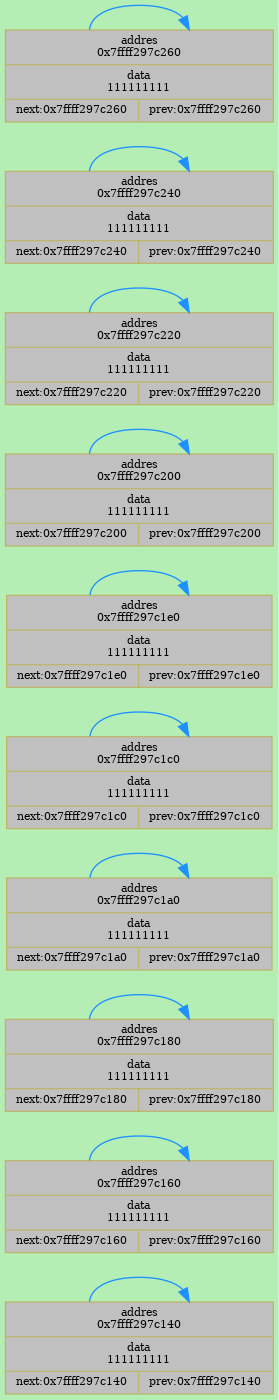
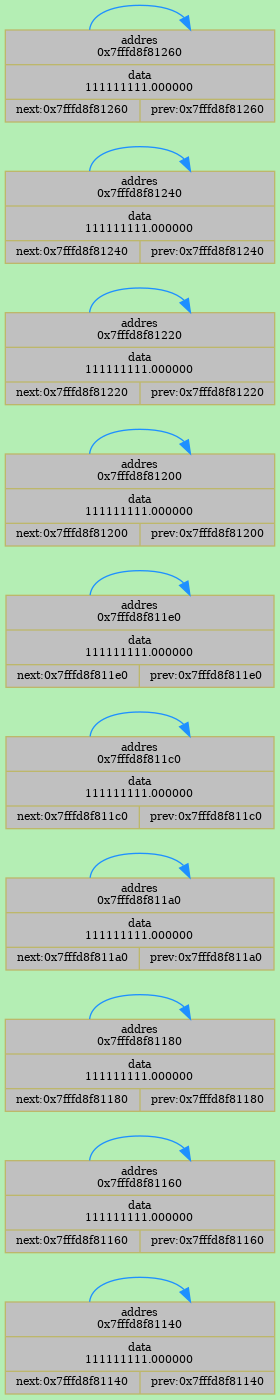
lists redone

diff --git a/graphviz/graphviz.cpp b/graphviz/graphviz.cpp
@@ -13,12 +13,14 @@ void DotCtor (const char* rankdir, const char* color)
     fprintf (dotFile, "\tnode[color=%s, fontsize = 8];\n", color);
 }
 
-void DotElemCtor (void* index, int data, void* next, void* prev, const char* shape, 
+void DotElemCtor (void* index, ElemType data, void* next, void* prev, const char* shape, 
         const char* color, const char* label, const char* style)
 {
     fprintf (dotFile, "\t%s%p[shape=%s, ", label, index, shape); 
-    fprintf (dotFile, "label=\"addres\\n%p|<data> data\\n%4d|{<next>next:%p|<prev>prev:%p}\", ", 
-            index, data, next, prev);
+    fprintf (dotFile, "label=\"addres\\n%p|<data> data\\n", index);
+    fprintf (dotFile, ELEM_FMT, data);
+    
+    fprintf (dotFile, "|{<next>next:%p|<prev>prev:%p}\", ", next, prev);
     fprintf (dotFile, "fillcolor=\"%s\", style=%s];\n", color, style);
 }
 /*
@@ -51,6 +53,6 @@ void DotEnd (void)
 
     fclose (dotFile);
 
-    system ("dot dump/dot.dot -q -Tpng -o dump/dump.png");
+    system ("dot dump/dot.dot -Tpng -q -o dump/dump.png");
     system ("rm  dump/dot.dot");
 }

diff --git a/graphviz/graphviz.h b/graphviz/graphviz.h
@@ -4,9 +4,12 @@
 #include <stdio.h>
 #include <stdlib.h>
 
+typedef double ElemType;
+#define ELEM_FMT "%lf"
+
 void    DotCtor         (const char* rankdir = "LR", const char *color = "darkkhaki");
 
-void    DotElemCtor     (void* i, int data = 0, void* next = 0, void* prev = 0, 
+void    DotElemCtor     (void* i, ElemType data = 0, void* next = 0, void* prev = 0, 
         const char* shape = "record", const char* color = "darkslategray1",
         const char* label = "elem", const char* style = "filled");
 //void    DotInfoElemCtor (int capacity, int size, int head, int tail, 

diff --git a/hashTable/hashTable.cpp b/hashTable/hashTable.cpp
@@ -7,7 +7,7 @@ CHashTbl::CHashTbl (int size) :
 
 CHashTbl::~CHashTbl ()
 {
-    //delete (lists_);
+    delete[] lists_;
     size_ = DESTROYED;
 }
 

diff --git a/cppLists/cppLists.h b/cppLists/cppLists.h
@@ -6,7 +6,7 @@
 
 #include "../graphviz/graphviz.h"
 
-typedef int ElemType;
+typedef double ElemType;
 
 const int           DESTROYED   =   -213;
 
